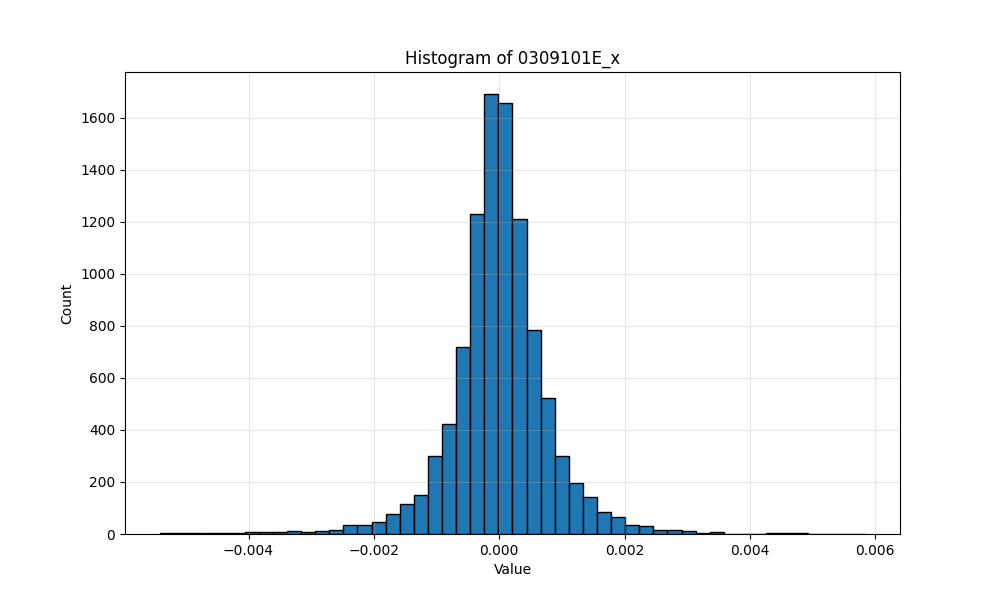
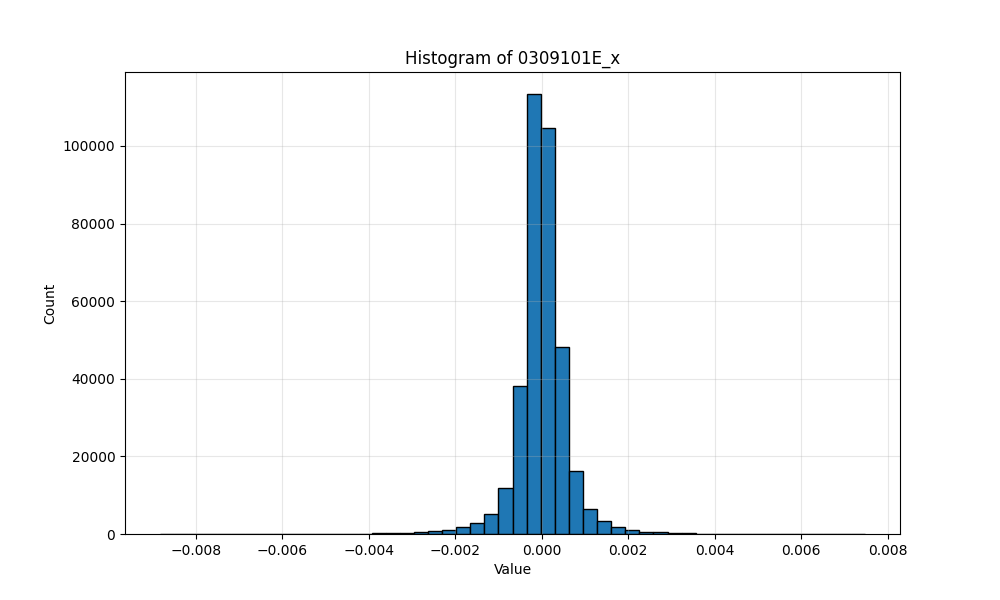
updating couple of scripst and some graphs for the wip paper to etfa25

diff --git a/Filtering/graph_for_etfa.py b/Filtering/graph_for_etfa.py
@@ -1,0 +1,212 @@
+import pandas as pd
+import polars as pl
+import matplotlib.pyplot as plt
+import matplotlib.dates as mdates
+import numpy as np
+from datetime import datetime
+import psutil
+import os
+from scipy.signal import find_peaks
+import argparse
+import plotly.graph_objects as go
+
+def memory_usage():
+    """Print current memory usage"""
+    process = psutil.Process(os.getpid())
+    mem = process.memory_info().rss / 1024 / 1024  # Convert to MB
+    print(f"Current memory usage: {mem:.2f} MB")
+
+def load_data_polars(filepath):
+    """Load parquet file using Polars for memory efficiency"""
+    print("Loading data with Polars...")
+    memory_usage()
+    # Load the data
+    
+    check1 = filepath.endswith('.csv')
+    check2 = filepath.endswith('.parquet')
+    if check1:
+        df = pl.read_csv(filepath, separator= ';')
+        print('reading the csv file:')
+        # Count total rows without loading everything to memory
+        total_rows = df.select(pl.count()).item() #use .collect if we use scan_csv function
+        print(f"Total rows: {total_rows:,}")
+    
+        # Get column names for sensor data (assuming pattern ends with _z for vertical direction)
+        sensor_columns = [col for col in df.columns if col != 'time']
+        
+        # Try to identify time column
+        time_column_candidates = ['time', 'timestamp', 'date']
+        time_column = next((col for col in df.columns if col in time_column_candidates), None)
+        print(f"Found {len(sensor_columns)} sensor columns:")
+        print(f"Using '{time_column}' as the time column")
+    if check2:
+        df = pl.scan_parquet(filepath)    
+        # Count total rows without loading everything to memory
+        total_rows = df.select(pl.len()).collect().item()
+        print(f"Total rows: {total_rows:,}")
+        
+        # Get column names for sensor data (assuming pattern ends with _z for vertical direction)
+        sensor_columns = [col for col in df.collect_schema().keys() if col != 'time']
+        
+        # Try to identify time column
+        time_column_candidates = ['time', 'timestamp', 'date']
+        time_column = next((col for col in df.collect_schema().keys() if col.lower() in time_column_candidates), None)
+        
+        print(f"Found {len(sensor_columns)} sensor columns:")
+        print(f"Using '{time_column}' as the time column")
+    
+    # sensors 99,100,101
+    campate2_sensor_columns = ['030911D2_x', '03091005_x', '0309101F_x']
+    #sensors in order 53->52->51
+    campate1b_sensor_columns = ['0309100F_x', '030910F6_x', '0309101E_x']
+    #sensors in order 106->105->104
+    campate1a_sensor_columns = ['030911FF_x', '030911EF_x', '03091200_x'] 
+    sensor_columns = [col for col in campate1a_sensor_columns if col in df.columns]
+    #sensor_columns = sensor_columns['03091200_x', '030911EF_x', '030911FF_x']
+    memory_usage()
+    return df, sensor_columns, time_column
+
+def filter_dc_by_mean(df: pl.DataFrame, sensor_columns: list[str]) -> pl.DataFrame:
+  
+    # Clone the DataFrame to avoid modifying the original
+    result_df = df.clone()
+    
+    # Process only specified sensor columns, ignoring 'time'
+    for col in sensor_columns:
+            # Compute the mean as a scalar
+            col_mean = df.select(pl.col(col).mean()).item() #use .collect.item() if we scan_csv or prquet
+            
+            # Subtract mean and update the column
+            result_df = result_df.with_columns(
+                (pl.col(col) - col_mean).alias(col)
+            )
+
+    print("\nProcessed Data (First 5 Rows):")
+    
+    #print(result_df.head(1))
+
+    return result_df
+
+def visualize_all_sensors(df, sensor_columns, time_column, start_time, duration_mins):
+    print(f"Visualizing all sensors with sample interval from {start_time} to {duration_mins} mins...")
+    memory_usage()
+
+    # Select only necessary columns and sample at specified interval
+    sampled_df = (df.select([time_column] + sensor_columns)  # Keep relevant columns
+    #.collect() used if you are scanning the file
+    .to_pandas())
+    print(f"Sampled data shape: {sampled_df.shape}")
+    memory_usage()
+    
+    sampled_df[time_column] = pd.to_datetime(sampled_df[time_column], format='%Y/%m/%d %H:%M:%S:%f', errors="coerce", exact=False)
+    #print(sampled_df.head())
+
+    #PLOT ONLY duration we want to analyse 
+    start_time = pd.to_datetime(start_time)
+    end_time = start_time + pd.Timedelta(minutes=duration_mins)
+    #limit to the specific time frame
+    sampled_df = sampled_df[(sampled_df[time_column]>=start_time)&(sampled_df[time_column]<=end_time)]
+
+    # Create figure
+    plt.figure(figsize=(16, 9))
+    plt.plot(sampled_df[time_column], sampled_df[sensor_columns[0]], linewidth=1, alpha=0.7)
+    # Format the plot
+    plt.title('Acceleration Data from Multiple Sensors')
+    plt.xlabel('Time')
+    plt.ylabel('Acceleration')
+    plt.legend(loc='upper center', bbox_to_anchor=(0.5, -0.15), ncol=3)
+    plt.grid(True, alpha=0.3)
+    plt.tight_layout()
+    plt.show()
+
+    sensor = sensor_columns[0]
+    return sampled_df, sensor
+    
+def filterby_threshold(data, threshold, sample_period, sensor_column):
+
+    #print(data.head(10))
+    # Extract sensor data
+    sensor_data = data[sensor_column]
+  
+    filtered_indices = []
+    filtered_df = pd.DataFrame(columns=['time', 'original_signal', sensor_column])
+    
+    i = 0
+    while i < len(data):
+        # Check if current value exceeds threshold
+        if np.abs(sensor_data.iloc[i]) >= threshold:
+            # Found start of segment
+            start = i
+            end = min(i + sample_period, len(sensor_data))
+            
+            # Extend window if values continue to exceed threshold
+            while i < end:
+                if np.abs(sensor_data.iloc[i]) >= threshold:
+                    end = min(i + sample_period, len(sensor_data))
+                i += 1
+                
+            # Add all indices in this segment
+            filtered_indices.extend(range(start, end))
+        else:
+            i += 1
+    
+    filtered_sensor_data = sensor_data.iloc[filtered_indices]
+    filtered_df['time'] = data['time']
+    filtered_df[sensor_column] = filtered_sensor_data
+    filtered_df[sensor_column] = filtered_df[sensor_column].fillna(0)
+    filtered_df['original_signal'] = sensor_data
+
+    plt.figure(figsize=(16, 9))
+    plt.plot(data['time'], data[sensor_column], label ='original')
+    plt.plot(data['time'], filtered_df[sensor_column],label='filtered', color ='y', linewidth=1, alpha=0.7)
+    # Format the plot
+    plt.axhline(threshold, label='threshold', color='red', linestyle='--')
+    plt.axhline(-threshold, color='red', linestyle='--')
+    plt.xlabel('Time', fontsize=18)
+    plt.ylabel('Acceleration', fontsize=18)
+    plt.tick_params(axis='x', labelsize=18)
+    plt.tick_params(axis='y', labelsize=18)
+    plt.legend(fontsize=18)
+    plt.grid(True, alpha=0.3)
+    plt.tight_layout()
+    plt.savefig('ETFA.png')
+    plt.show()
+
+
+    # Calculate ratio of filtered data to original data
+    signal_fil_ratio = len(filtered_indices) / len(data[sensor_column])
+    return filtered_df, signal_fil_ratio
+
+def main():
+    parser = argparse.ArgumentParser('Analyse the vibration realting the dyanmic weighing data')
+    parser.add_argument('--path', type = str, required=True, help= 'path for the file')
+    parser.add_argument('--start_time', type=str, required=True, help= 'starting time frame interedted in')
+    parser.add_argument('--duration_mins', type=float, required=True, help = 'duration in mins of time frame interested')
+    parser.add_argument('--chunk', type=int, required=True, help="chunk size (number of data points in window)")
+    parser.add_argument('--threshold', type=float, required=True, help="Comma-separated list of thresholds (e.g., 0.0005,0.001,0.002)")
+ 
+    #ex for script vibration_analysis.py --path path_to_folder --start_time  
+    args = parser.parse_args()
+    path = args.path # Path to your parquet file
+    start_time = args.start_time 
+    duration_mins = args.duration_mins
+    chunk = args.chunk
+    threshold = args.threshold
+    
+      
+    # Load data using Polars
+    df, sensor_columns, time_column = load_data_polars(path)
+
+    # Process the filtered data
+    no_dc_df = filter_dc_by_mean(df, sensor_columns)
+
+    # visualise each sensor in campate for a sample interval
+    sample_df, sensor = visualize_all_sensors(no_dc_df, sensor_columns, time_column, start_time, duration_mins)
+    
+    filterby_threshold(sample_df, threshold, chunk, sensor)
+  
+    print("Analysis complete!")
+    memory_usage()
+
+if __name__ == "__main__":
+    main()

diff --git a/Filtering/filtering_script_v5.py b/Filtering/filtering_script_v5.py
@@ -1,15 +1,17 @@
 import argparse
 import numpy as np
 import pandas as pd
-from datetime import datetime
-import matplotlib.pyplot as plt, mpld3
+import matplotlib.pyplot as plt
+from matplotlib.ticker import FormatStrFormatter
 import time
-import math
 
 def sensor_data_clip(path, sensor_column):
     # Load data from parquet file with specified columns
     col = [sensor_column, 'time']
-    df = pd.read_parquet(path, engine='pyarrow', columns=col)
+    if path.endswith('.csv'):
+        df = pd.read_csv(path)
+    if path.endswith('.parquet'):
+        df = pd.read_parquet(path, engine='pyarrow', columns=col)
     return df
 
 def filter_dc_by_mean(data, sensor_column):
@@ -52,17 +54,20 @@ def filterby_threshold(data, threshold, sample_period, sensor_column):
     filtered_df[sensor_column] = filtered_df[sensor_column].fillna(0)
     filtered_df['original_signal'] = sensor_data
     
-    # # Optional: Visualize each filtered result
-    # plt.figure(figsize=(16, 5))
-    # plt.plot(data['time'], data[sensor_column], label ='original')
-    # plt.plot(data['time'], filtered_df[sensor_column], color='g', label="filtered with Threshold = {}".format(threshold))
-    # plt.title(f"Time-series signal with the filtering threshold")
+    # Optional: Visualize each filtered result
+    plt.figure(figsize=(16, 5))
+    plt.plot(data['time'], data[sensor_column], color ='b', label ='original')
+    plt.plot(data['time'], filtered_df[sensor_column], color='g')
+    plt.title(f"Time-series signal with the filtering threshold")
     # plt.hlines(y=threshold, label='threshold = {}'.format(threshold), colors='r', linestyles='--', xmin=0, xmax=len(data))
-    # plt.xlabel("Time")
-    # plt.ylabel("Acceleration:")
-    # plt.legend()
-    # plt.grid()
-    # plt.show()
+    # plt.hlines(y= -threshold, colors='r', linestyles='--', xmin=0, xmax=len(data))
+    plt.xlabel("Time")
+    plt.ylabel("Acceleration:")
+    plt.legend()
+    plt.grid(True)
+    plt.tight_layout()
+    plt.show()
+    plt.savefig('etfa_graph')
 
     # Calculate ratio of filtered data to original data
     signal_fil_ratio = len(filtered_indices) / len(data[sensor_column])
@@ -101,21 +106,34 @@ def printhist(df, sensor_column):
     plt.savefig(f'histogram_{sensor_column}.png')
 
 def RMSE_graph(rmse_df, sensor_column):
-    fig, ax1 = plt.subplots(figsize=(10, 8))
+
+    rmse_df['RMSE'] = rmse_df['RMSE'] * 1e3
+    fig, ax1 = plt.subplots(figsize=(12, 8))
     ax2 = ax1.twinx()
     ax1.plot(rmse_df['threshold'], rmse_df['RMSE'], marker='o', linestyle='-')
     ax2.plot(rmse_df['threshold'], rmse_df['signal_ratio'], marker='o', color='r')
-    ax1.set_xlabel(f'Threshold: {sensor_column}')
-    ax1.set_ylabel('RMSE')
-    ax2.set_ylabel('signal_filtering_ratio')
+    ax1.set_xlabel(f'Threshold: {sensor_column}', fontsize = 14)
+    ax1.set_ylabel('RMSE * 10^-3', fontsize = 14)
+    ax2.set_ylabel('signal_filtering_ratio', fontsize = 14)
     ax1.set_xticks(rmse_df['threshold'])
+    ax1.tick_params(axis='x', labelrotation=45)
     ax1.set_yticks(rmse_df['RMSE'])
     ax2.set_yticks(rmse_df['signal_ratio'])
-    plt.grid()
-    plt.title('threshold vs rmse vs signal_ratio')
-    plt.savefig('rmse_graph.png')
-    plt.show()
+    # Primary Y-axis (left)
+    ax1.yaxis.set_major_formatter(FormatStrFormatter('%.2f'))  # limit to 6 decimals
+    ax1.tick_params(axis='both', labelsize=14)  # font size
+
+    ax2.yaxis.set_major_formatter(FormatStrFormatter('%.2f'))  # limit to 4 decimals
+    ax2.tick_params(axis='y', labelsize=14)
+    ax1.tick_params(axis='x', labelsize=14)
     
+    
+    #plt.rcParams.update({'font.size': 16})
+    plt.grid()
+    plt.savefig('rmse_graph_wip.png', dpi=300, bbox_inches='tight')
+    plt.show()
+
+
 def main():
     parser = argparse.ArgumentParser(description="Process parquet files, filter sensor data using chunk and threshold")
     parser.add_argument('--file_path', type=str, required=True, help="Path to parquet file to process")
@@ -132,7 +150,7 @@ def main():
 
     # Load and preprocess data
     df = sensor_data_clip(path, sensor_column)
-    df_no_dc = filter_dc_by_mean(df[:10000], sensor_column)
+    df_no_dc = filter_dc_by_mean(df[343802:344802], sensor_column)
   
     RMSE_results = []
     signal_filtering_ratio = []
@@ -143,10 +161,10 @@ def main():
         rmse = rmse_cal(filtered_df, sensor_column)
         RMSE_results.append(rmse)
         signal_filtering_ratio.append(signal_fil_ratio)
-        print(f"Threshold: {threshold}, RMSE: {rmse:.6f}, signal_filtering_ratio: {signal_fil_ratio:.6f}")
+        #print(f"Threshold: {threshold}, RMSE: {rmse:.6f}, signal_filtering_ratio: {signal_fil_ratio:.6f}")
         
     # Generate histogram of original data
-    printhist(df_no_dc, sensor_column)
+    #printhist(df_no_dc, sensor_column)
 
     # Create summary dataframe and plot results
     rmse_df = pd.DataFrame({
@@ -155,10 +173,11 @@ def main():
         'signal_ratio': signal_filtering_ratio
     }, columns=['threshold', 'RMSE', 'signal_ratio'])
     
-    RMSE_graph(rmse_df, sensor_column)
+    #RMSE_graph(rmse_df, sensor_column)
 
 if __name__ == '__main__':
     start_time = time.time()
     main()
     end_time = time.time()
     print(f"Total execution time: {end_time - start_time:.2f} seconds")
+    
